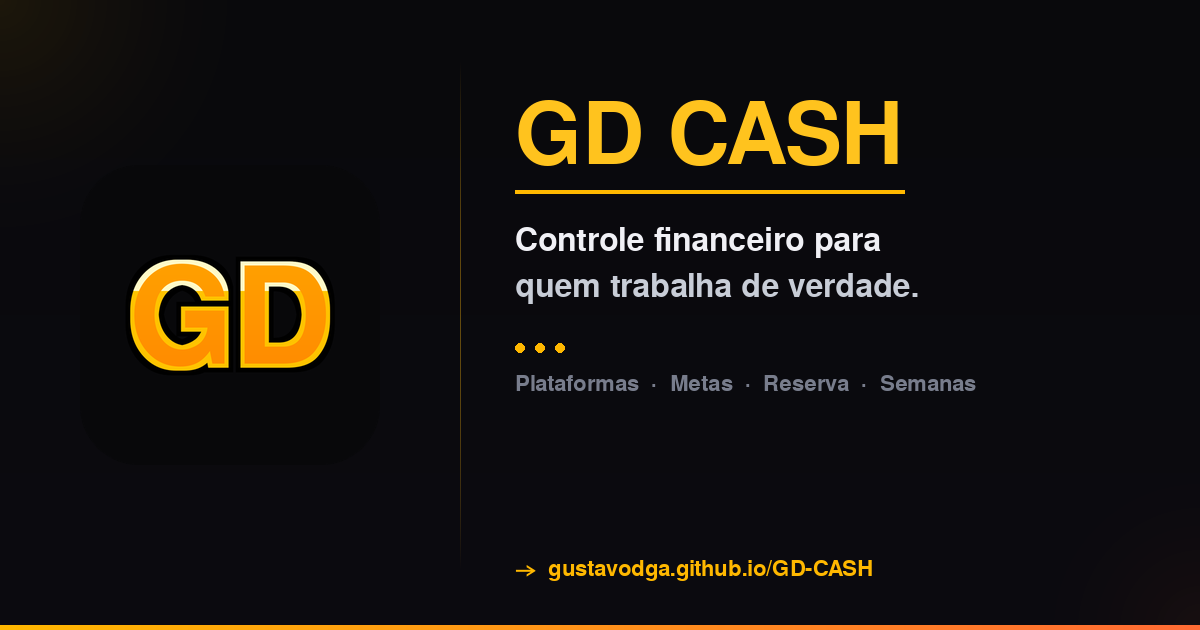
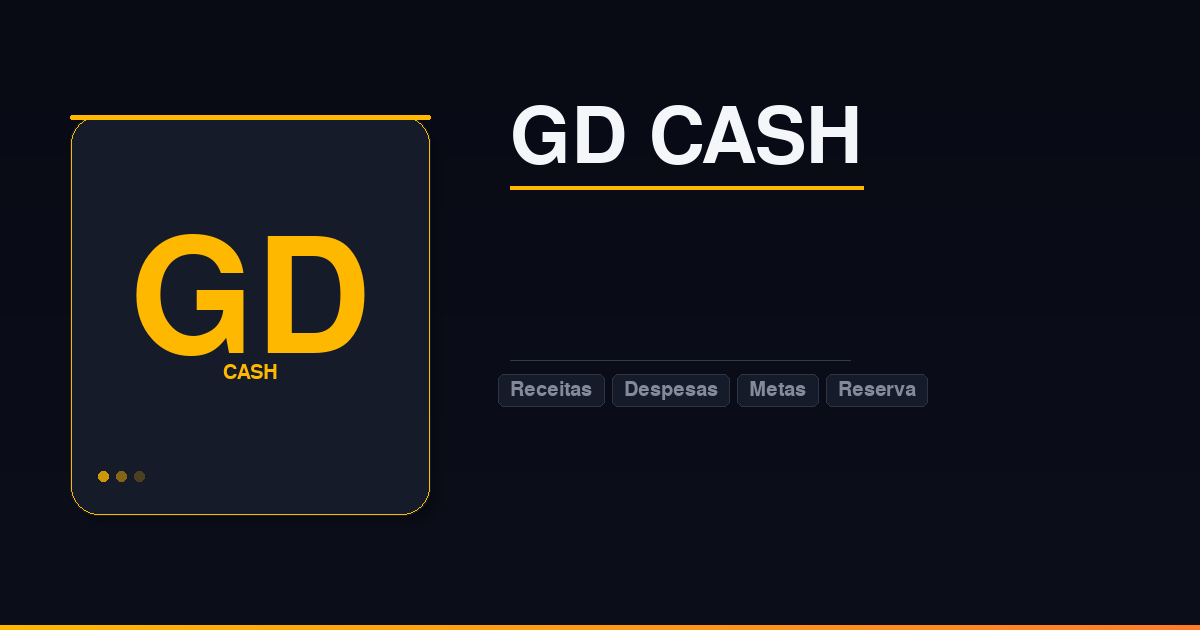
chore: redesign OG image (bank style) and clean up meta tags
Replace old OG card with new dark bank-style design (no tagline).
Remove the rejected 'Controle financeiro para quem trabalha de verdade'
phrase from title, og:title and og:description.

Claude-Session: https://claude.ai/code/session_013in5zzHv2HnpAMwHeZSaWK

diff --git a/index.html b/index.html
@@ -8,13 +8,13 @@
 <meta name="apple-mobile-web-app-title" content="GD CASH">
 <meta name="theme-color" content="#ffb800">
 <meta name="mobile-web-app-capable" content="yes">
-<title>GD CASH — Controle financeiro para quem trabalha de verdade</title>
+<title>GD CASH — Seu app financeiro</title>
 
 <!-- Open Graph (preview ao compartilhar) -->
 <meta property="og:type"        content="website">
 <meta property="og:url"         content="https://gustavodga.github.io/GD-CASH/">
-<meta property="og:title"       content="GD CASH — Controle financeiro para quem trabalha de verdade">
-<meta property="og:description" content="Anote receitas por plataforma, controle despesas, acompanhe metas e sua reserva. O app que gig workers usam pra não deixar dinheiro passar.">
+<meta property="og:title"       content="GD CASH">
+<meta property="og:description" content="Receitas, despesas, metas e reserva. Controle financeiro no seu bolso.">
 <meta property="og:image"       content="https://gustavodga.github.io/GD-CASH/og-image.png">
 <meta property="og:image:width" content="1200">
 <meta property="og:image:height"content="630">